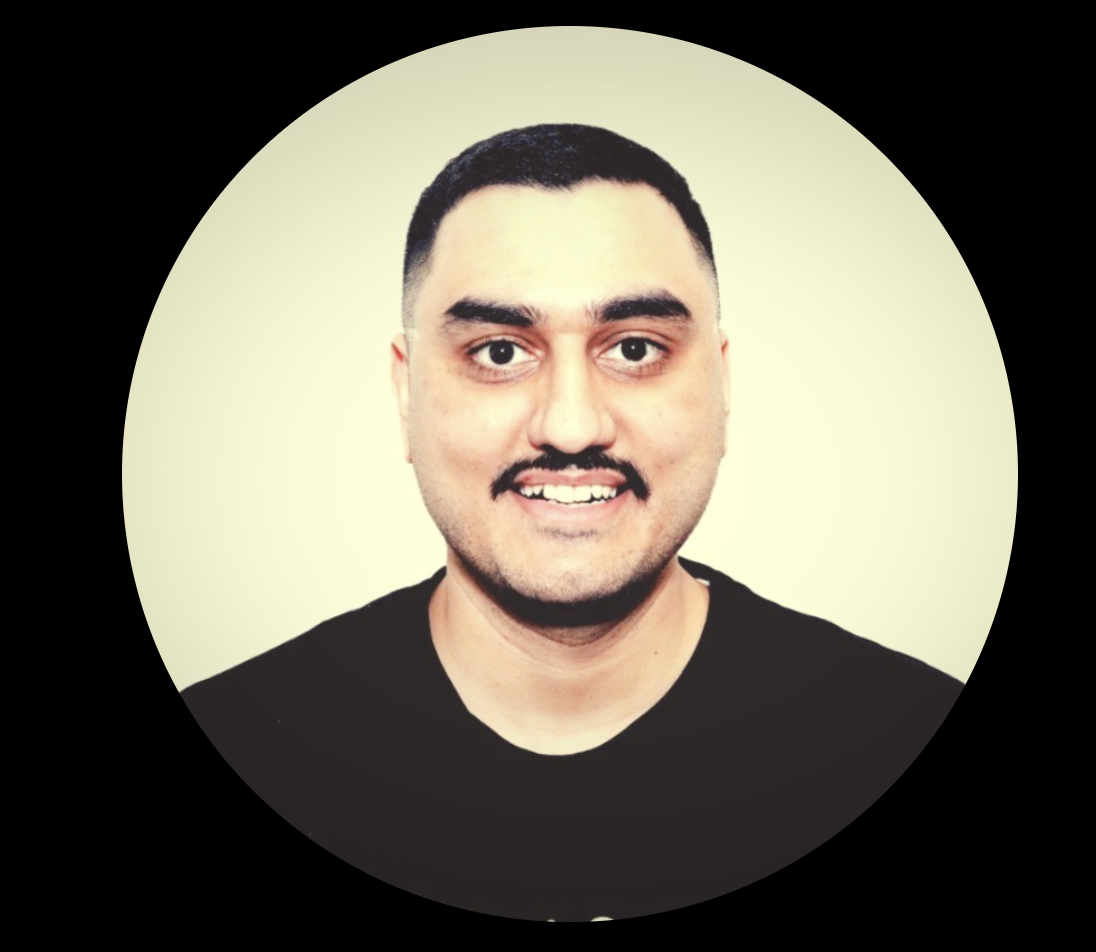
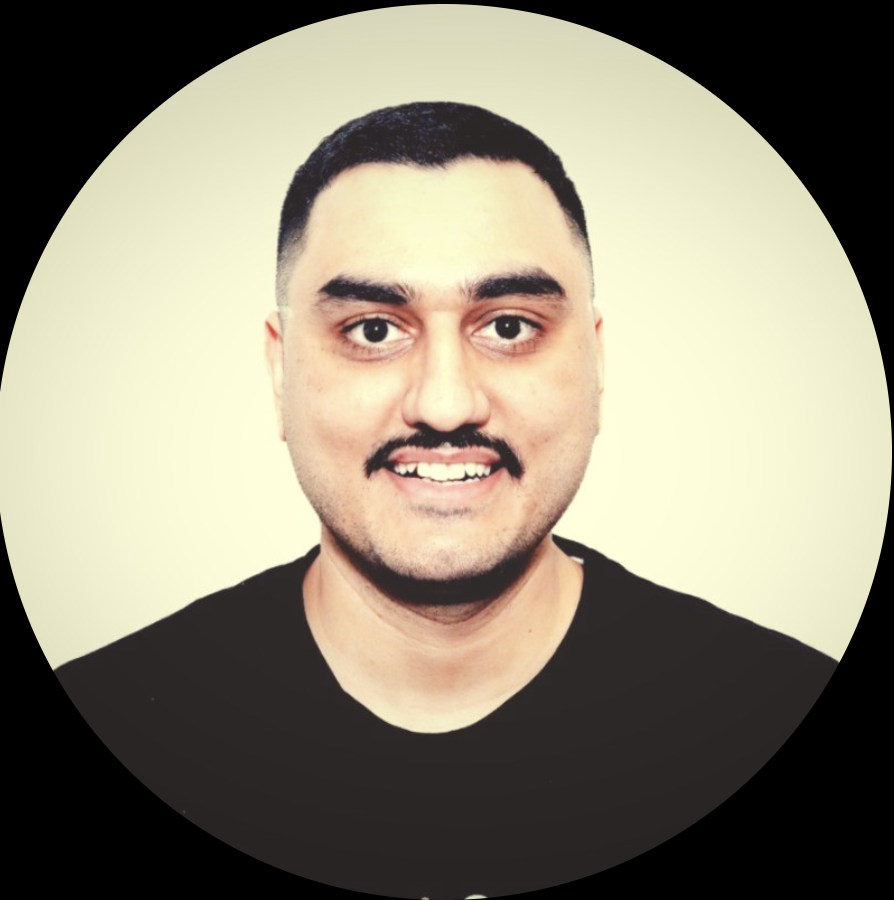
add: photos of instructors

diff --git a/src/components/CoinCard/CoinCard.jsx b/src/components/CoinCard/CoinCard.jsx
@@ -8,12 +8,33 @@ const CoinCard = ({ coin, onFlip }) => {
         setFlipped(!flipped);
         onFlip(coin, !flipped);
     };
+    const instructorImages = {
+        'Umer Coins': '../../src/images/umer.png',
+        'Mark Bucks': '../../src/images/mark.png',
+        'Jim\'s Neo Coin': '../../src/images/jim.png',
+        'Kowsiya\'s K-Bar': '../../src/images/kowsiya.png',
+        'Michelle\'s CorgiCoin': '../../src/images/michelle.png'
+
+    };
+
+    const instructorImage = instructorImages[coin.name];
 
     return (
         <div className="coin-card-wrapper">
             <div className={`coin-card ${flipped ? 'flipped' : ''}`} onClick={handleFlip}>
                 <div className="coin-card-front">
                     <h3>{coin.name || 'Unknown Coin'}</h3>
+                </div>
+                <div className="coin-card-back">
+                    {instructorImage ? (
+                        <img
+                            src={instructorImage}
+                            alt={coin.name}
+                            className="instructor-image"
+                        />
+                    ) : (
+                        <h3>No Image Available</h3>
+                    )}
                 </div>
             </div>
         </div>

diff --git a/src/components/CoinCard/CoinCard.scss b/src/components/CoinCard/CoinCard.scss
@@ -1,6 +1,6 @@
 .coin-card {
-    width: 9.375rem;
-    height: 9.375rem;
+    width: 9.375rem; // This is the size of the circular card
+    height: 9.375rem; // Keep height equal to width for a perfect circle
     perspective: 62.5rem;
     margin: 0.625rem;
     cursor: pointer;
@@ -31,6 +31,17 @@
         background-color: #f44336;
         color: white;
         transform: rotateY(180deg);
+        display: flex;
+        justify-content: center;
+        align-items: center;
+        border-radius: 50%; // Ensure the back remains circular
+
+        .instructor-image {
+            width: 100%; // Take full width of the container
+            height: 100%; // Take full height of the container
+            border-radius: 50%; // Keep the image circular
+            object-fit: cover; // Ensure the image covers the entire area while maintaining aspect ratio
+        }
     }
 
     &.flipped .coin-card-front {

diff --git a/src/components/About/About.jsx b/src/components/About/About.jsx
@@ -51,6 +51,8 @@ const About = () => {
                     <CoinCard key={index} coin={coin} onFlip={handleFlip} />
                 ))}
             </div>
+
+            {/* Dropdown Section should be here, above "What is BrainCoins?" */}
             {selectedCoin && isFlipped && (
                 <div className="coin-info-dropdown">
                     <h3>{selectedCoin.name}</h3>
